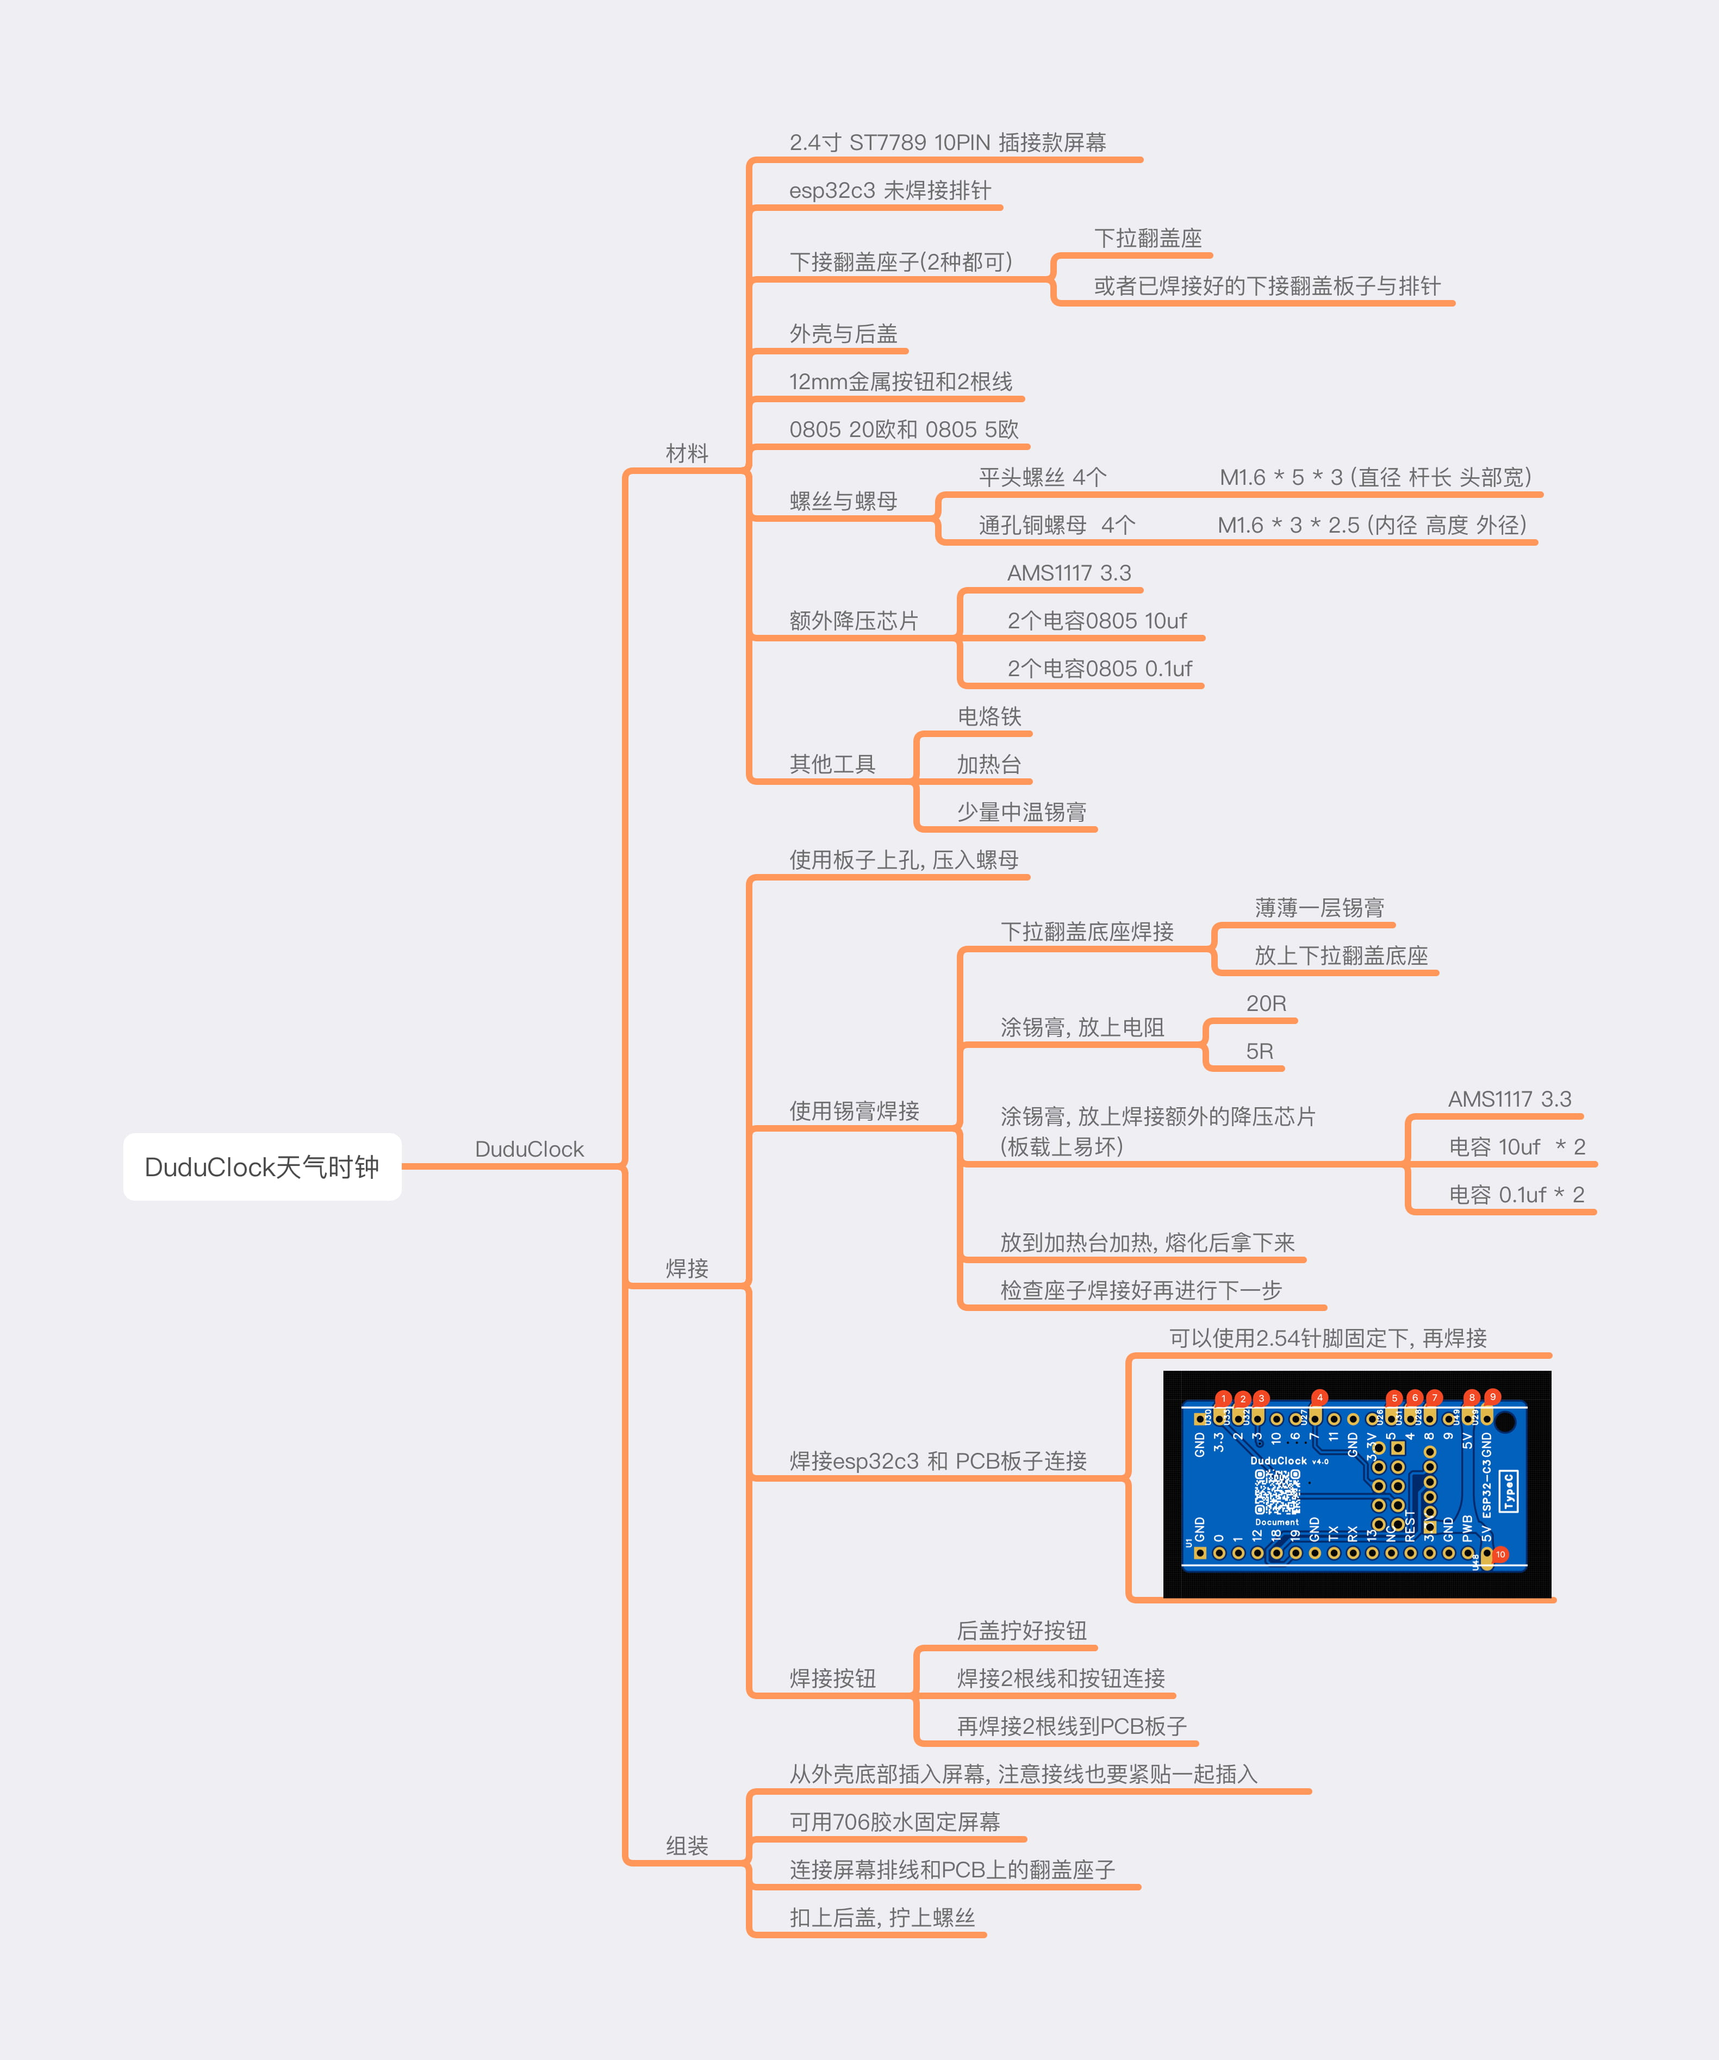
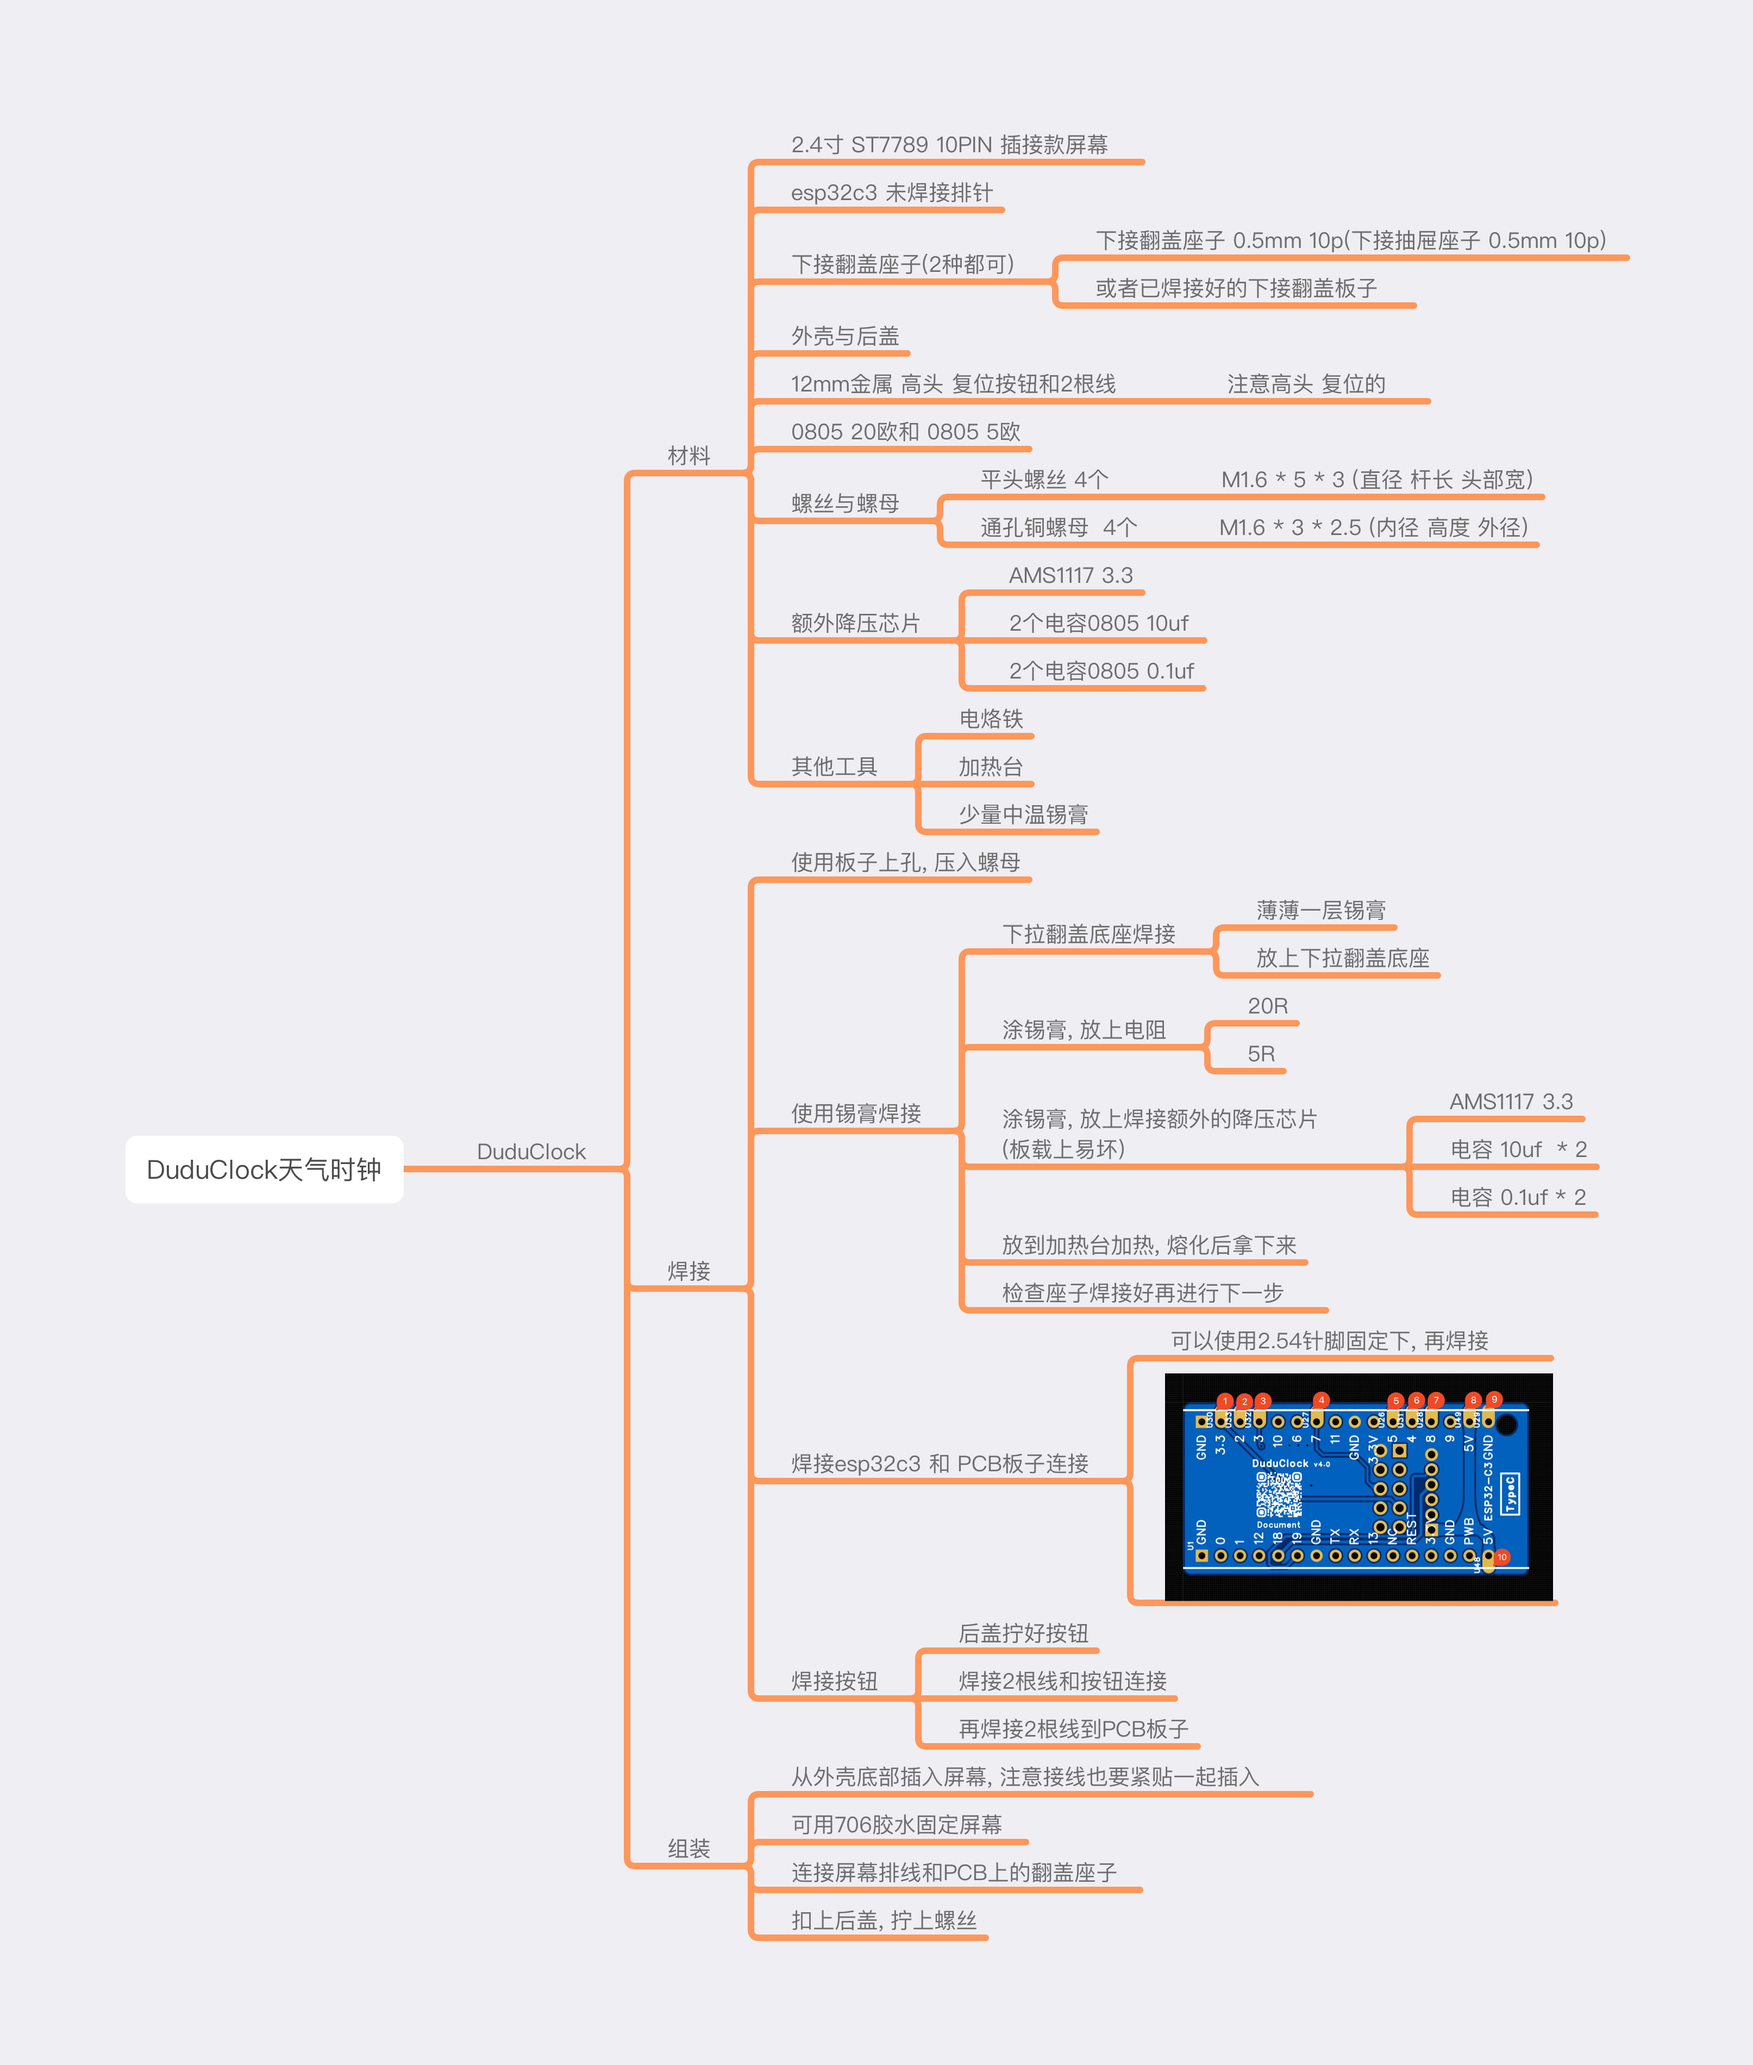
更新文档按钮规格

diff --git a/document/duduClock.md b/document/duduClock.md
@@ -7,10 +7,11 @@
 - 2.4寸 ST7789 10PIN 插接款屏幕
 - esp32c3 未焊接排针
 - 下接翻盖座子(2种都可)
-  - 下拉翻盖座
-  - 或者已焊接好的下接翻盖板子与排针
+  - 下接翻盖座子 0.5mm 10p(下接抽屉座子 0.5mm 10p)
+  - 或者已焊接好的下接翻盖板子
 - 外壳与后盖
-- 12mm金属按钮和2根线
+- 12mm金属 高头 复位按钮和2根线
+  - 注意高头 复位的
 - 0805 20欧和 0805 5欧
 - 螺丝与螺母
   - 平头螺丝 4个
@@ -45,7 +46,7 @@
   - 检查座子焊接好再进行下一步
 - 焊接esp32c3 和 PCB板子连接
   - 可以使用2.54针脚固定下, 再焊接
-  - ![](../img/1-2.jpg)
+  - ![img](../img/1-2.jpg)
 - 焊接按钮
   - 后盖拧好按钮
   - 焊接2根线和按钮连接
